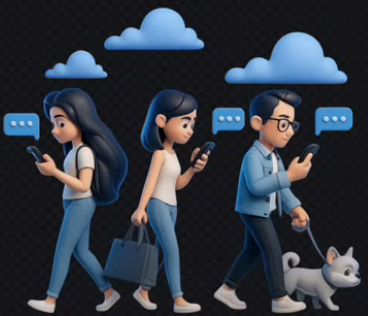
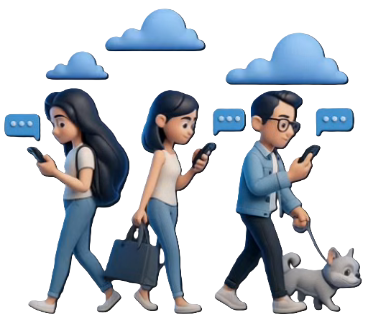
login frontend

diff --git a/frontend/src/pages/LoginPage.jsx b/frontend/src/pages/LoginPage.jsx
@@ -1,12 +1,122 @@
-
+import { useState } from "react";
+import { useAuthStore } from "../store/useAuthStore";
+import BorderAnimatedContainer from "../components/BorderAnimatedContainer";
+import { Link } from "react-router";
+import {
+  MessageCircleIcon,
+  MailIcon,
+  LoaderIcon,
+  LockIcon,
+  EyeIcon,
+  EyeOffIcon,
+} from "lucide-react";
 
 function LoginPage() {
-  
+  const [formData, setFormData] = useState({ email: "", password: "" });
+  const [showPassword, setShowPassword] = useState(false);
+  const { login, isLoggingIn } = useAuthStore();
+
+  const handleSubmit = (e) => {
+    e.preventDefault();
+    login(formData);
+  };
+
   return (
-    <div>
-      
+    <div className="w-full flex items-center justify-center p-4 bg-slate-900">
+      <div className="relative w-full max-w-6xl md:h-[800px] h-[650px]">
+        <BorderAnimatedContainer>
+          <div className="w-full flex flex-col md:flex-row">
+            {/* FORM COLUMN - LEFT SIDE */}
+            <div className="md:w-1/2 p-8 flex items-center justify-center md:border-r border-slate-600/30">
+              <div className="w-full max-w-md">
+                {/* HEADING TEXT */}
+                <div className="text-center mb-8">
+                  <MessageCircleIcon className="w-12 h-12 mx-auto text-slate-400 mb-4" />
+                  <h2 className="text-2xl font-bold text-slate-200 mb-2">Welcome Back</h2>
+                  <p className="text-slate-400">Login to access your account</p>
+                </div>
+
+                {/* FORM */}
+                <form onSubmit={handleSubmit} className="space-y-6">
+                  {/* EMAIL INPUT */}
+                  <div>
+                    <label className="auth-input-label">Email</label>
+                    <div className="relative">
+                      <MailIcon className="auth-input-icon" />
+                      <input
+                        type="email"
+                        value={formData.email}
+                        onChange={(e) => setFormData({ ...formData, email: e.target.value })}
+                        className="input"
+                        placeholder="johndoe@gmail.com"
+                      />
+                    </div>
+                  </div>
+
+                  {/* PASSWORD INPUT */}
+                  <div>
+                    <label className="auth-input-label">Password</label>
+                    <div className="relative">
+                      <LockIcon className="auth-input-icon" />
+                      <input
+                        type={showPassword ? "text" : "password"}
+                        value={formData.password}
+                        onChange={(e) => setFormData({ ...formData, password: e.target.value })}
+                        className="input"
+                        placeholder="Enter your password"
+                      />
+                      <button
+                        type="button"
+                        onClick={() => setShowPassword(!showPassword)}
+                        className="absolute right-3 top-1/2 -translate-y-1/2 text-slate-400 hover:text-slate-200"
+                      >
+                        {showPassword ? <EyeOffIcon className="size-5" /> : <EyeIcon className="size-5" />}
+                      </button>
+                    </div>
+                  </div>
+
+                  {/* SUBMIT BUTTON */}
+                  <button className="auth-btn" type="submit" disabled={isLoggingIn}>
+                    {isLoggingIn ? (
+                      <LoaderIcon className="w-full h-5 animate-spin text-center" />
+                    ) : (
+                      "Sign In"
+                    )}
+                  </button>
+                </form>
+
+                <div className="mt-6 text-center">
+                  <Link to="/signup" className="auth-link">
+                    Don't have an account? Sign Up
+                  </Link>
+                </div>
+              </div>
+            </div>
+
+            {/* FORM ILLUSTRATION - RIGHT SIDE */}
+            <div className="hidden md:w-1/2 md:flex items-center justify-center p-6 bg-gradient-to-bl from-slate-800/20 to-transparent">
+              <div>
+                <img
+                  src="/login.png"
+                  alt="People using mobile devices"
+                  className="w-full h-auto object-contain"
+                />
+                <div className="mt-6 text-center">
+                  <h3 className="text-xl font-medium text-cyan-400">Connect anytime, anywhere</h3>
+
+                  <div className="mt-4 flex justify-center gap-4">
+                    <span className="auth-badge">Free</span>
+                    <span className="auth-badge">Easy Setup</span>
+                    <span className="auth-badge">Private</span>
+                  </div>
+                </div>
+              </div>
+            </div>
+          </div>
+        </BorderAnimatedContainer>
+      </div>
     </div>
-  )
+  );
 }
 
-export default LoginPage
+export default LoginPage;

diff --git a/frontend/src/store/useAuthStore.js b/frontend/src/store/useAuthStore.js
@@ -5,6 +5,8 @@ import toast from "react-hot-toast";
 export const useAuthStore = create((set) => ({
   authUser: null,
   isCheckingAuth: true,
+  isSigningUp: false,
+  isLoggingIn: false,
 
   checkAuth: async () => {
   try {
@@ -31,4 +33,28 @@ signup: async (data) => {
   }
 },
 
+login: async (data) => {
+  set({ isLoggingIn: true });
+  try {
+    const res = await axiosInstance.post("/auth/login", data);
+    set({ authUser: res.data });
+
+    toast.success("Logged in successfully");
+  } catch (error) {
+    toast.error(error.response.data.message);
+  } finally {
+    set({ isLoggingIn: false });
+  }
+},
+
+logout: async () => {
+  try {
+    await axiosInstance.post("/auth/logout");
+    set({ authUser: null });
+    toast.success("Logged out successfully");
+  } catch (error) {
+    toast.error("Error logging out");
+    console.log("Logout error:", error);
+  }
+},
 }));

diff --git a/frontend/src/pages/ChatPage.jsx b/frontend/src/pages/ChatPage.jsx
@@ -1,11 +1,14 @@
-
+import { useAuthStore } from "../store/useAuthStore";
 
 function ChatPage() {
+  const { logout } = useAuthStore();
+
   return (
-    <div>
-      
+    <div className="relative z-10 text-white">
+      ChatPage
+      <button onClick={logout}>Logout</button>
     </div>
-  )
+  );
 }
 
-export default ChatPage
+export default ChatPage;
